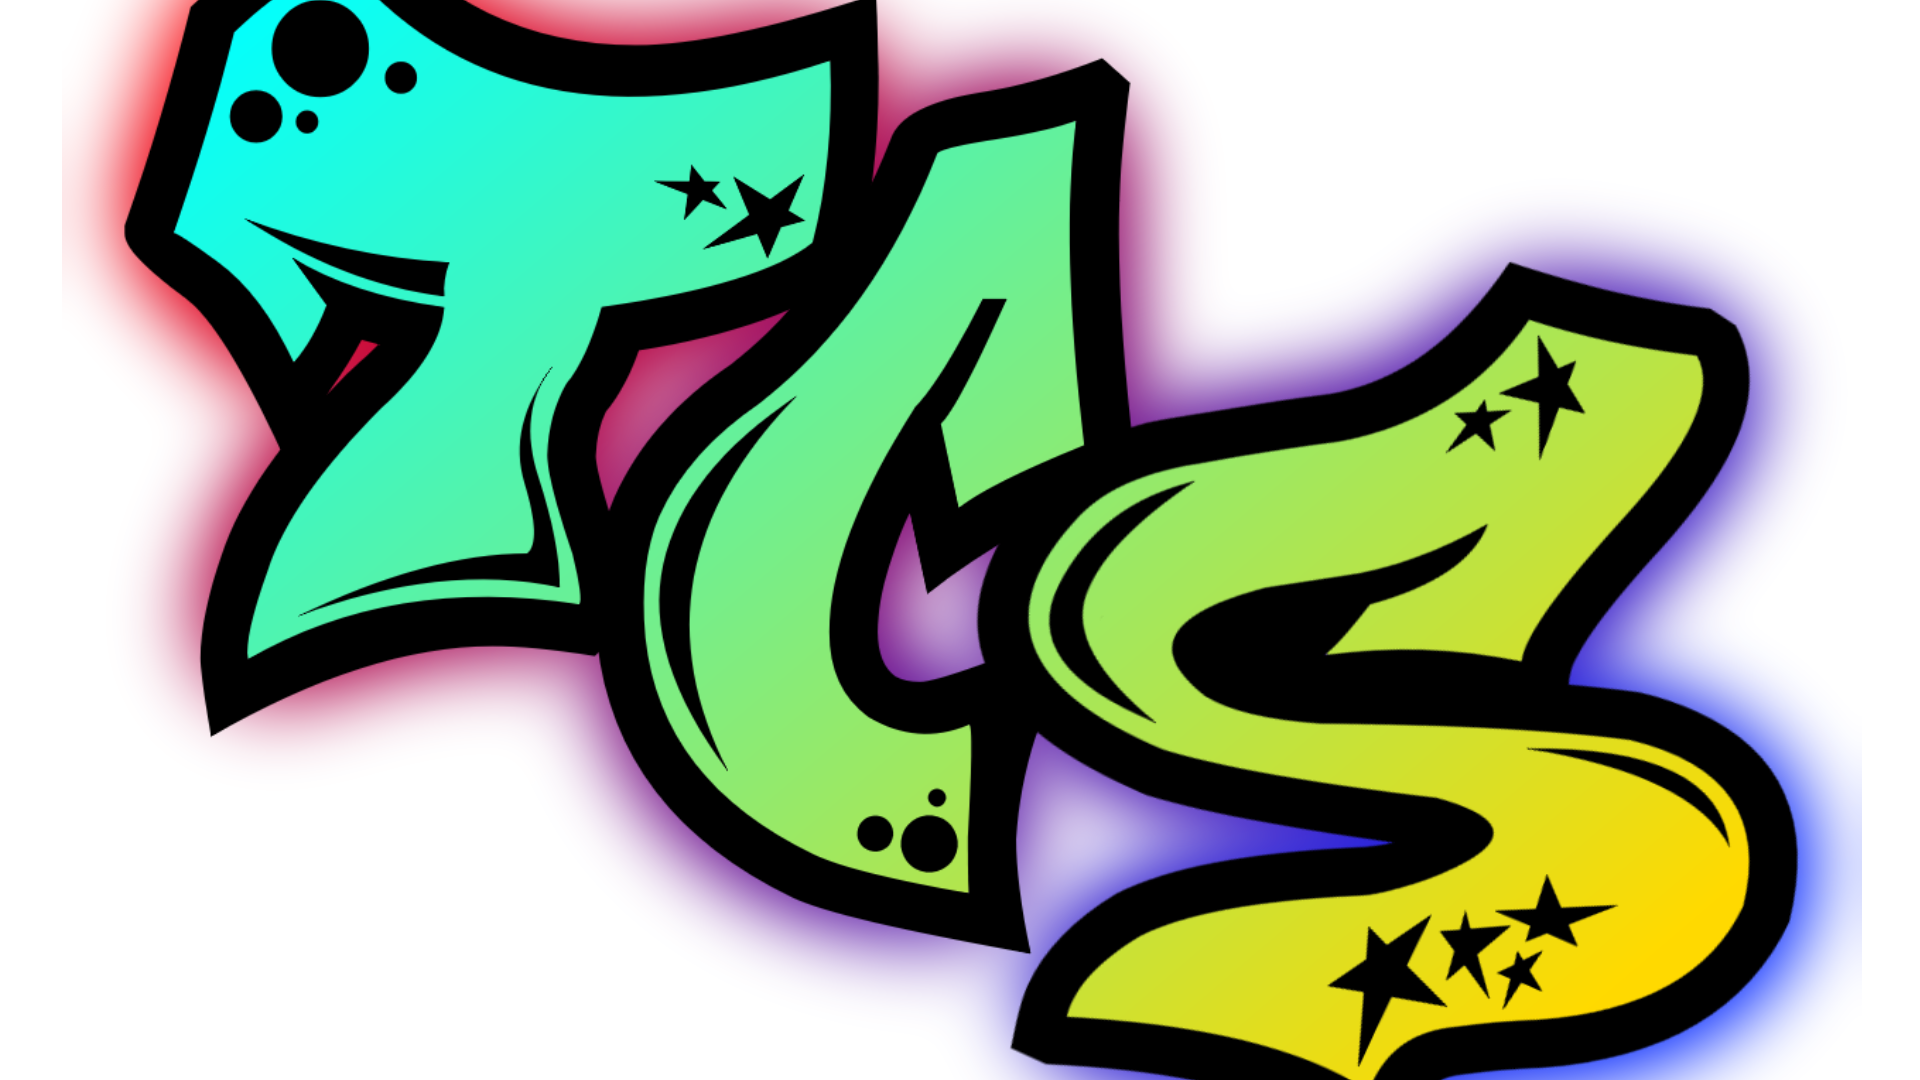
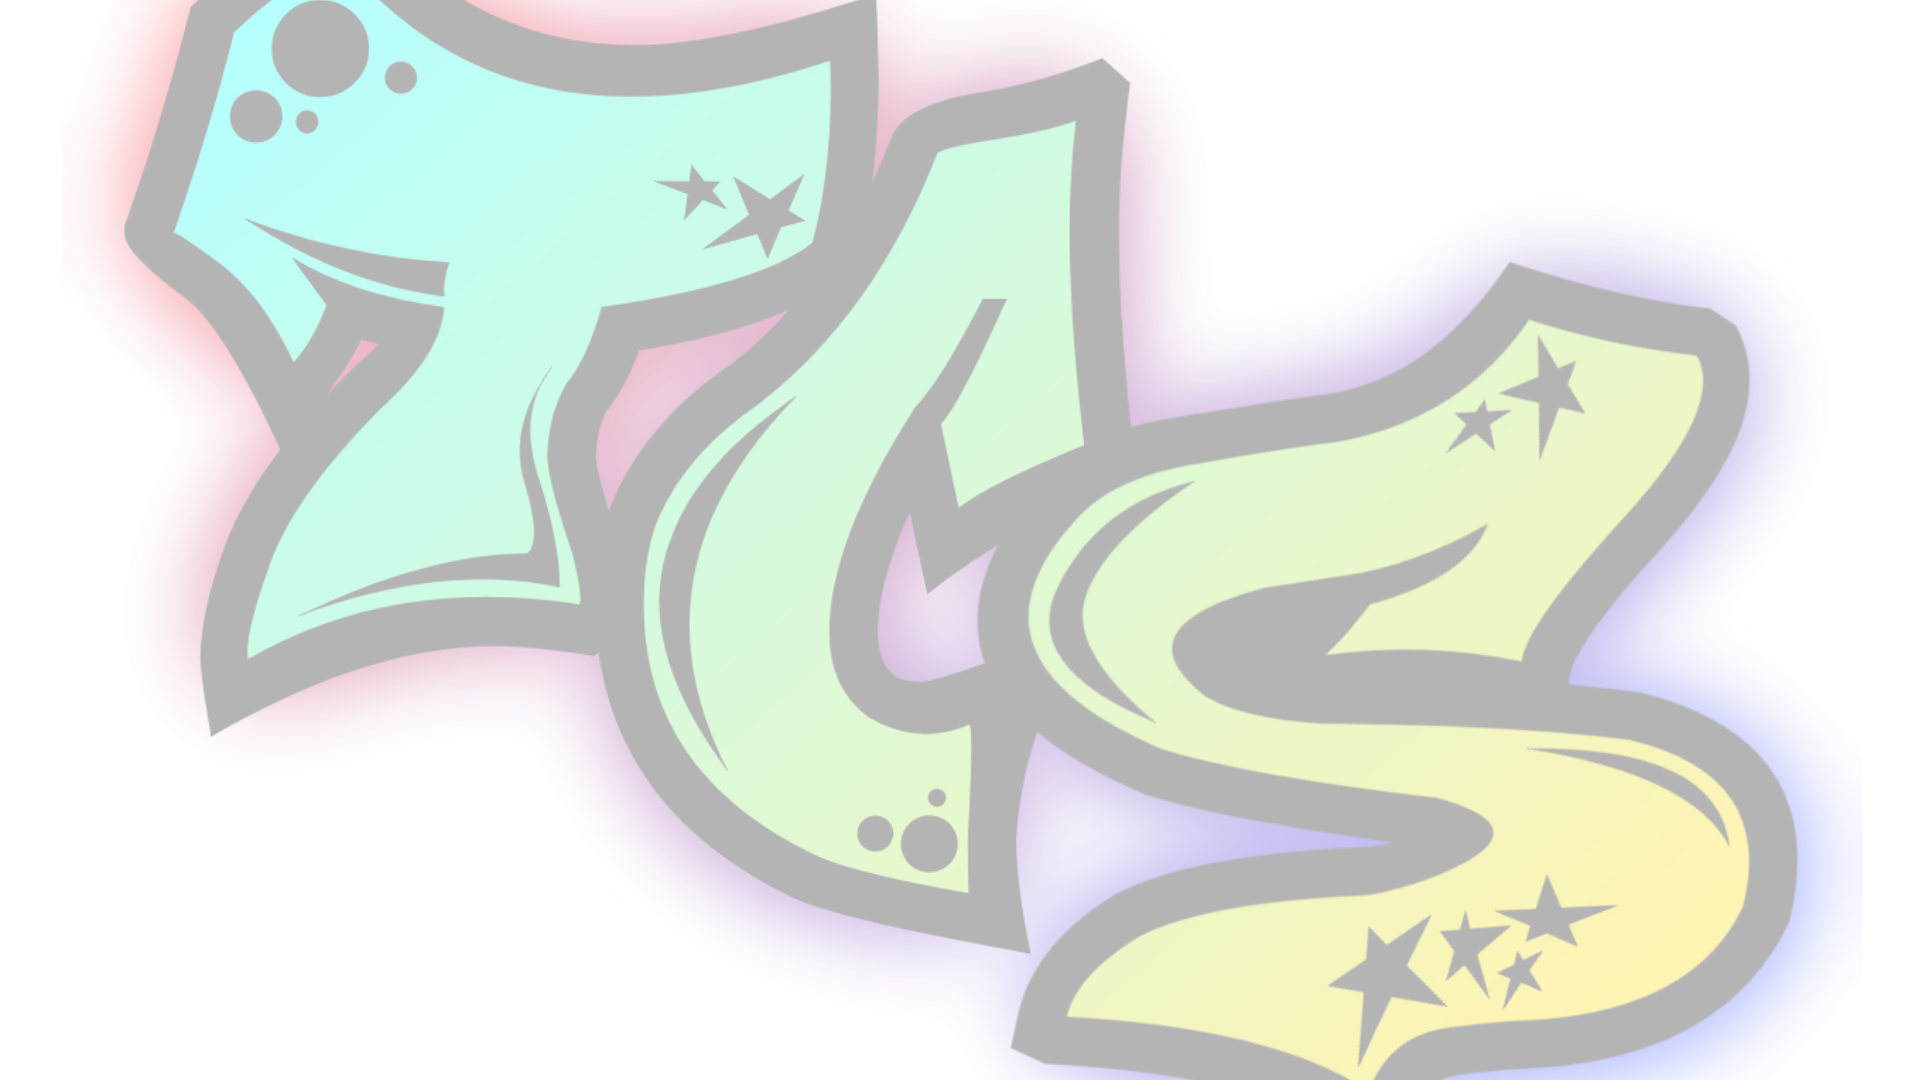
Another index revamp

diff --git a/index.css b/index.css
@@ -1,5 +1,6 @@
 body {
     background-color: black;
+    background-image: url(media/img/TheCarrySquadBanner.png);
     height: 100vh;
     margin: 0;
     overflow: hidden;
@@ -9,63 +10,57 @@ body {
 change background-position to better align div bg images
 */
 
-#fish {
+#fish, #linq, #sr, #kai, #bean {
     float: left;
-    background-image: url(./media/img/banner.png);
-    background-size: cover;
-    background-position: 90%;
     width: 20%;
     height: 100%;
+    opacity: 0;
+}
+
+#fish:hover, #linq:hover, #sr:hover, #kai:hover, #bean:hover {
+    opacity: 1;
+    transition: opacity 0.25s ease-in-out;
+}
+
+#fish {
+    background-image: radial-gradient(circle, skyblue, blue);
     color: white;
 }
 
 #linq {
-    float: left;
-    background-image: url(./media/img/galaxy.jpg);
-    background-size: cover;
-    background-position: center;
-    width: 20%;
-    height: 100%;
+    background-image: radial-gradient(circle, mediumpurple, purple);
     color: white;
 }
 
 #sr {
-    float: left;
-    background-image: url(./media/img/gaymuslimretard.png);
-    background-position: center;
-    width: 20%;
-    height: 100%;
+    background-image: radial-gradient(circle, lightgoldenrodyellow, yellow);
     color: white;
 }
 
 #kai {
-    float: left;
-    background-image: url(./media/img/homies.png);
-    background-size: cover;
-    background-position: 5%;
-    width: 20%;
-    height: 100%;
+    background-image: radial-gradient(circle, indianred, red);
     color: white;
 }
 
 #bean {
-    float: left;
-    background-image: url(./media/img/homies.png);
-    background-size: cover;
-    background-position: 95%;
-    width: 20%;
-    height: 100%;
+    background-image: radial-gradient(circle, darkorange, orangered);
     color: white;
 }
 
 @-webkit-keyframes filter-animation {
-    0% { -webkit-filter: blur(0px);}
-    100% { -webkit-filter: blur(8px);}
+    0% { -webkit-filter: drop-shadow(0 0 0rem rgb(0, 0, 0));}
+    100% { -webkit-filter: drop-shadow(0 0 0.50rem rgb(0, 0, 0));}
 }
 
-#fish:hover, #linq:hover, #sr:hover, #kai:hover, #bean:hover {
+#fishCover, #linqCover, #srCover, #kaiCover, #beanCover {
+    width: 100%;
+    height: 100%; 
+    object-fit: cover;
+}
+
+#fishCover:hover, #linqCover:hover, #srCover:hover, #kaiCover:hover, #beanCover:hover {
     -webkit-animation: filter-animation 0.25s;
-    filter: blur(8px);
+    filter: drop-shadow(0 0 0.50rem rgb(0, 0, 0));
 }
 
 #fish h1, #linq h1, #sr h1,#kai h1, #bean h1{
@@ -74,4 +69,5 @@ change background-position to better align div bg images
     writing-mode: vertical-rl;
     text-shadow: 4px 4px black;
     position: absolute;
+    z-index: 10;
 }

diff --git a/index.html b/index.html
@@ -5,33 +5,38 @@
 </head>
 <body>
     
-    <a href="fish.html">
+    <a href="./homies/fish.html">
     <div id="fish">
         <h1>ThatCrazyFish27</h1>
+        <img id="fishCover" src="./media/img/fish.png">
     </div>
     </a>
     
-    <a href="linq.html">
+    <a href="./homies/linq.html">
     <div id="linq">
         <h1>LINK301</h1>
+        <img id="linqCover" src="./media/img/linq.png">
     </div>
     </a>
     
-    <a href="sr.html">
+    <a href="./homies/sr.html">
     <div id="sr">
         <h1>sr8611</h1>
+        <img id="srCover" src="./media/img/sr.png">
     </div>
     </a>
     
-    <a href="kai.html">
+    <a href="./homies/kai.html">
     <div id="kai">
         <h1>ImJustVibingDood</h1>
+        <img id="kaiCover" src="./media/img/kai.png">
     </div>
     </a>
     
-    <a href="bean.html">
+    <a href="./homies/bean.html">
     <div id="bean">
         <h1>3eanDip</h1>
+        <img id="beanCover" src="./media/img/bean.png">
     </div>
     </a>
     

diff --git a/homies/bean.html b/homies/bean.html
@@ -1,0 +1,10 @@
+<!DOCTYPE html>
+<head>
+    <link rel="stylesheet" href="bean.css"/>
+</head>
+<body>
+
+</body>
+<footer>
+
+</footer>

diff --git a/homies/fish.html b/homies/fish.html
@@ -1,0 +1,10 @@
+<!DOCTYPE html>
+<head>
+    <link rel="stylesheet" href="fish.css"/>
+</head>
+<body>
+
+</body>
+<footer>
+
+</footer>

diff --git a/homies/linq.html b/homies/linq.html
@@ -1,0 +1,10 @@
+<!DOCTYPE html>
+<head>
+    <link rel="stylesheet" href="linq.css"/>
+</head>
+<body>
+
+</body>
+<footer>
+
+</footer>

diff --git a/homies/kai.html b/homies/kai.html
@@ -1,0 +1,10 @@
+<!DOCTYPE html>
+<head>
+    <link rel="stylesheet" href="kai.css"/>
+</head>
+<body>
+
+</body>
+<footer>
+
+</footer>

diff --git a/homies/bean.css b/homies/bean.css
@@ -1,0 +1,4 @@
+body {
+    background-image: url(../media/img/BeanDipCover.png);
+    background-size: cover;
+}

diff --git a/homies/fish.css b/homies/fish.css
@@ -1,0 +1,4 @@
+body {
+    background-image: url(../media/img/banner.png);
+    background-size: cover;
+}

diff --git a/homies/kai.css b/homies/kai.css
@@ -1,0 +1,4 @@
+body {
+    background-image: url(../media/img/temp2.jpg);
+    background-size: cover;
+}

diff --git a/homies/linq.css b/homies/linq.css
@@ -1,0 +1,4 @@
+body {
+    background-image: url(../media/img/temp1.png);
+    background-size: cover;
+}

diff --git a/homies/sr.css b/homies/sr.css
@@ -1,0 +1,4 @@
+body {
+    background-image: url(../media/img/temp3.png);
+    background-size: cover;
+}

diff --git a/homies/sr.html b/homies/sr.html
@@ -1,6 +1,6 @@
 <!DOCTYPE html>
 <head>
-
+    <link rel="stylesheet" href="sr.css"/>
 </head>
 <body>
 
